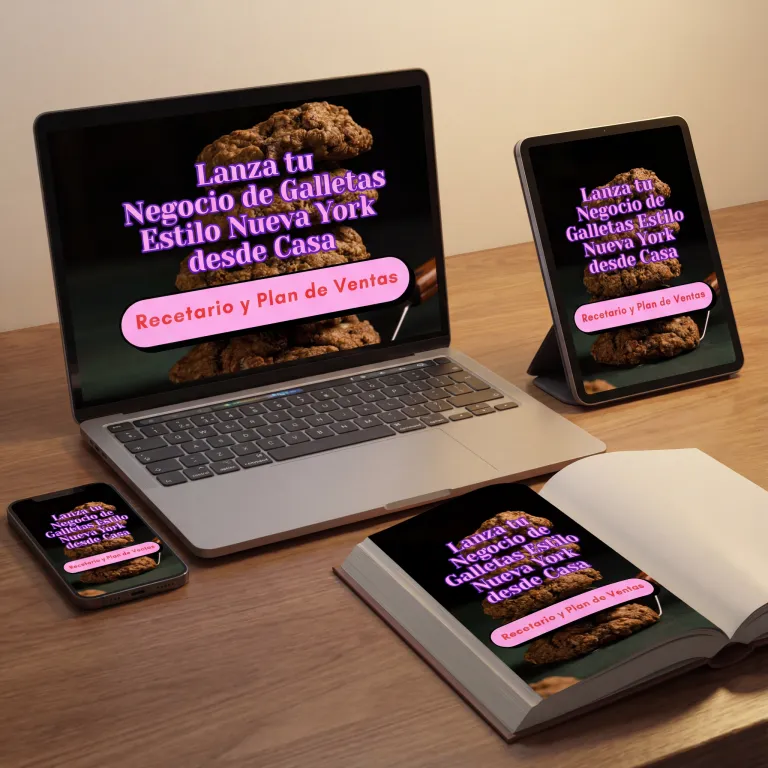
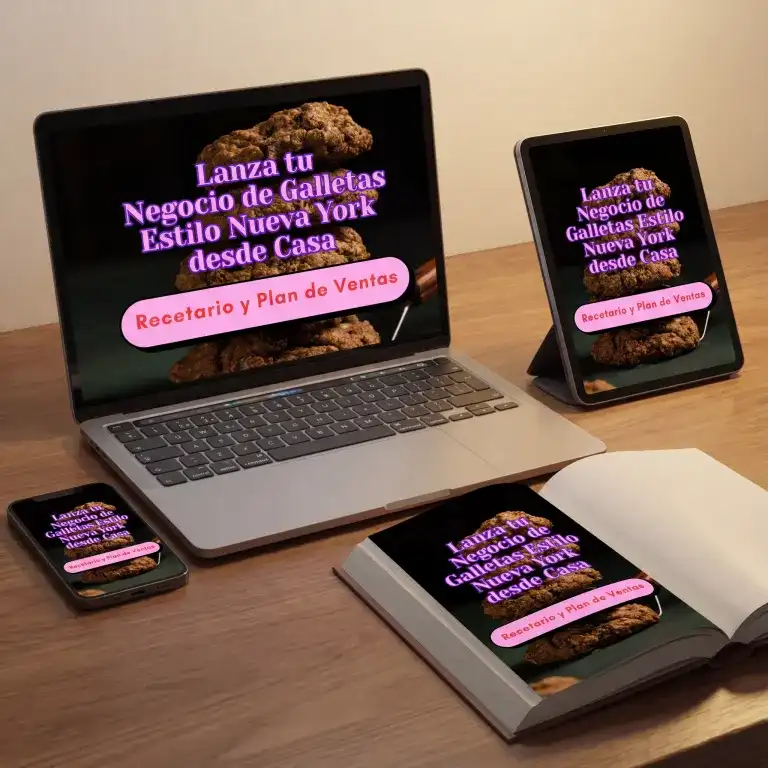
Improve PageSpeed: recompress mockups q55, async CSS + critical inline
Mockup images recompressed at quality 55 (~25-34% smaller). Added Vite
plugin to make CSS non-render-blocking (print→all pattern). Inlined
critical CSS variables and body styles to prevent white flash.

diff --git a/vite.config.ts b/vite.config.ts
@@ -1,6 +1,20 @@
-import { defineConfig } from "vite";
+import { defineConfig, type Plugin } from "vite";
 import react from "@vitejs/plugin-react-swc";
 import path from "path";
+
+/** Convert the build CSS <link> to async (print→all) so it's non-render-blocking. */
+function asyncCssPlugin(): Plugin {
+  return {
+    name: 'async-css',
+    enforce: 'post',
+    transformIndexHtml(html) {
+      return html.replace(
+        /<link rel="stylesheet" crossorigin href="(\/assets\/[^"]+\.css)">/,
+        `<link rel="stylesheet" href="$1" media="print" onload="this.media='all'">\n    <noscript><link rel="stylesheet" href="$1"></noscript>`
+      );
+    },
+  };
+}
 
 // https://vitejs.dev/config/
 export default defineConfig(({ mode }) => ({
@@ -8,7 +22,7 @@ export default defineConfig(({ mode }) => ({
     host: "::",
     port: 8080,
   },
-  plugins: [react()].filter(Boolean),
+  plugins: [react(), asyncCssPlugin()].filter(Boolean),
   resolve: {
     alias: {
       "@": path.resolve(__dirname, "./src"),

diff --git a/index.html b/index.html
@@ -103,6 +103,14 @@
       });
     </script>
     <!-- End Meta Pixel Code -->
+
+    <!-- Critical CSS: prevents white flash while full stylesheet loads async -->
+    <style>
+      :root{--background:22 100% 97%;--foreground:15 38% 17%;--card:0 0% 100%;--border:22 30% 85%;--gold:38 65% 56%;--pink:336 100% 72%;--chocolate:15 38% 17%;--radius:1rem;--gradient-hero:linear-gradient(180deg,hsl(22 100% 97%) 0%,hsl(38 60% 94%) 100%);--shadow-card:0 4px 24px hsl(15 38% 17%/.08)}
+      html{scroll-behavior:smooth}
+      body{margin:0;background-image:var(--gradient-hero);background-attachment:fixed;background-color:hsl(var(--background));color:hsl(var(--foreground));font-family:'Poppins',system-ui,sans-serif;-webkit-font-smoothing:antialiased}
+      #root{position:relative;z-index:1}
+    </style>
   </head>
 
   <body>
